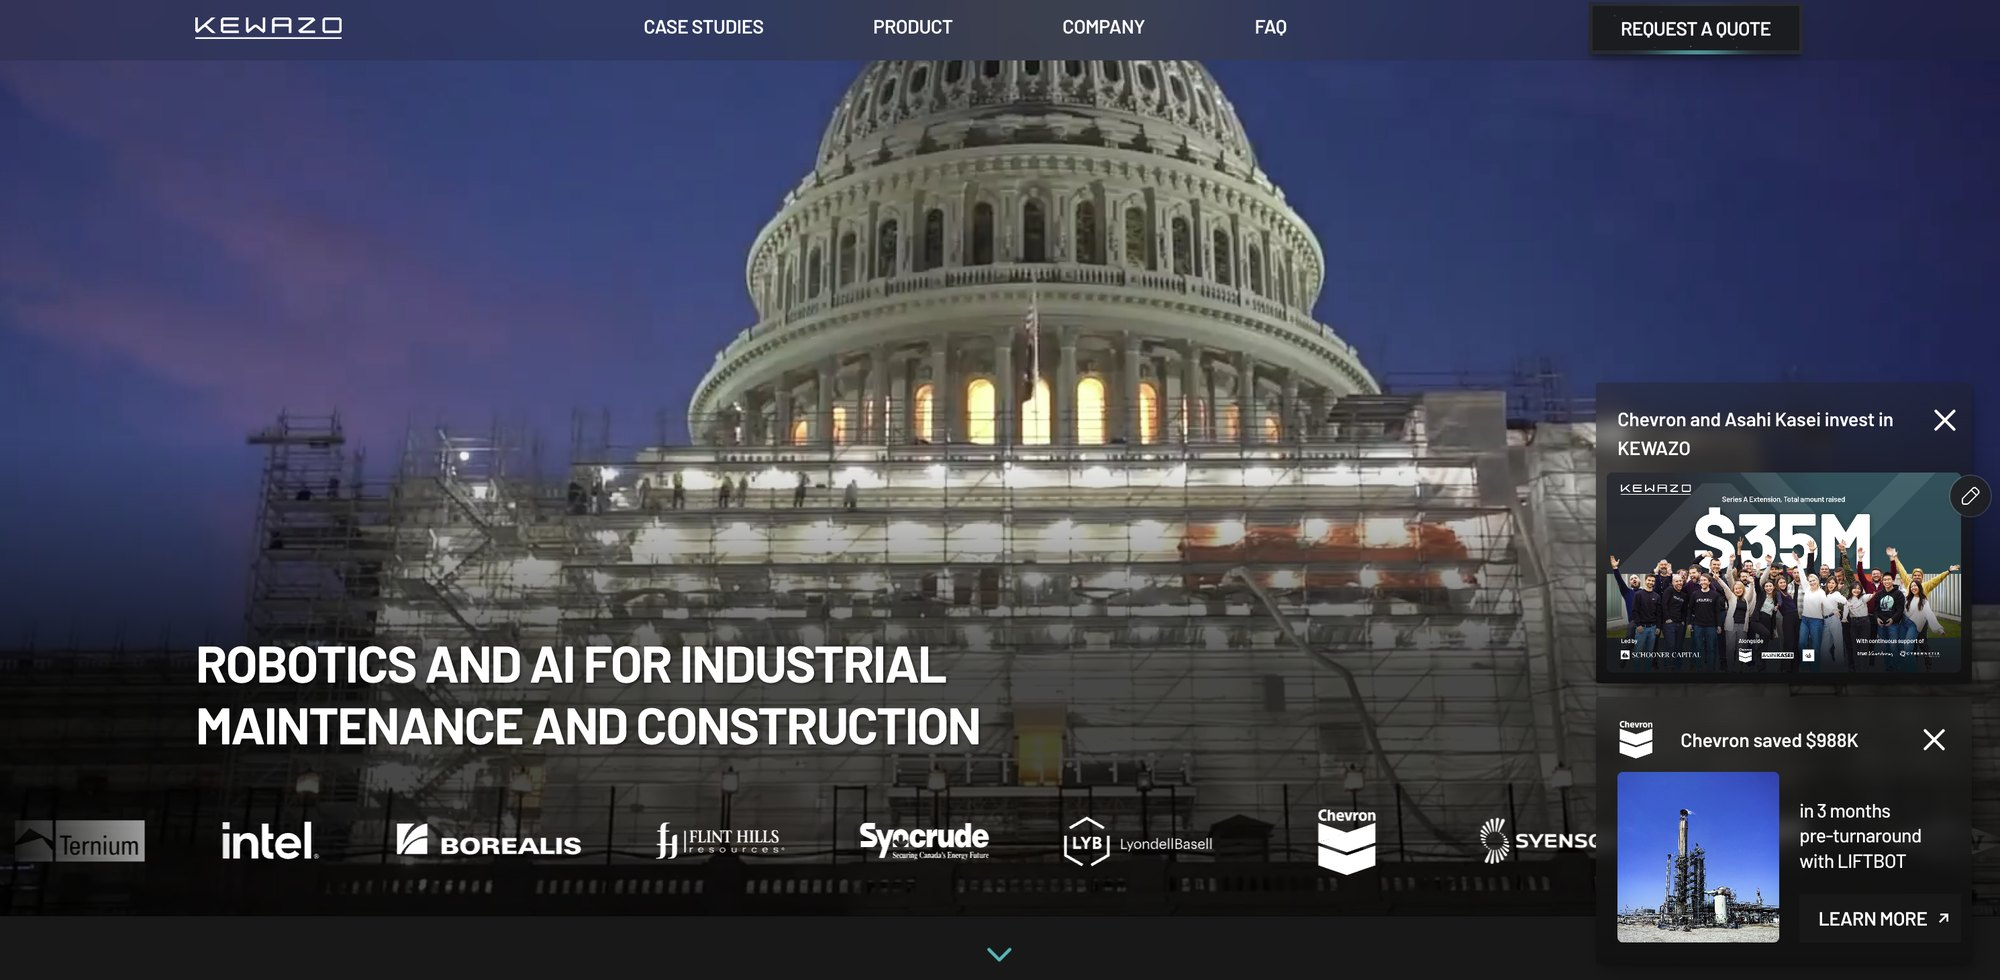
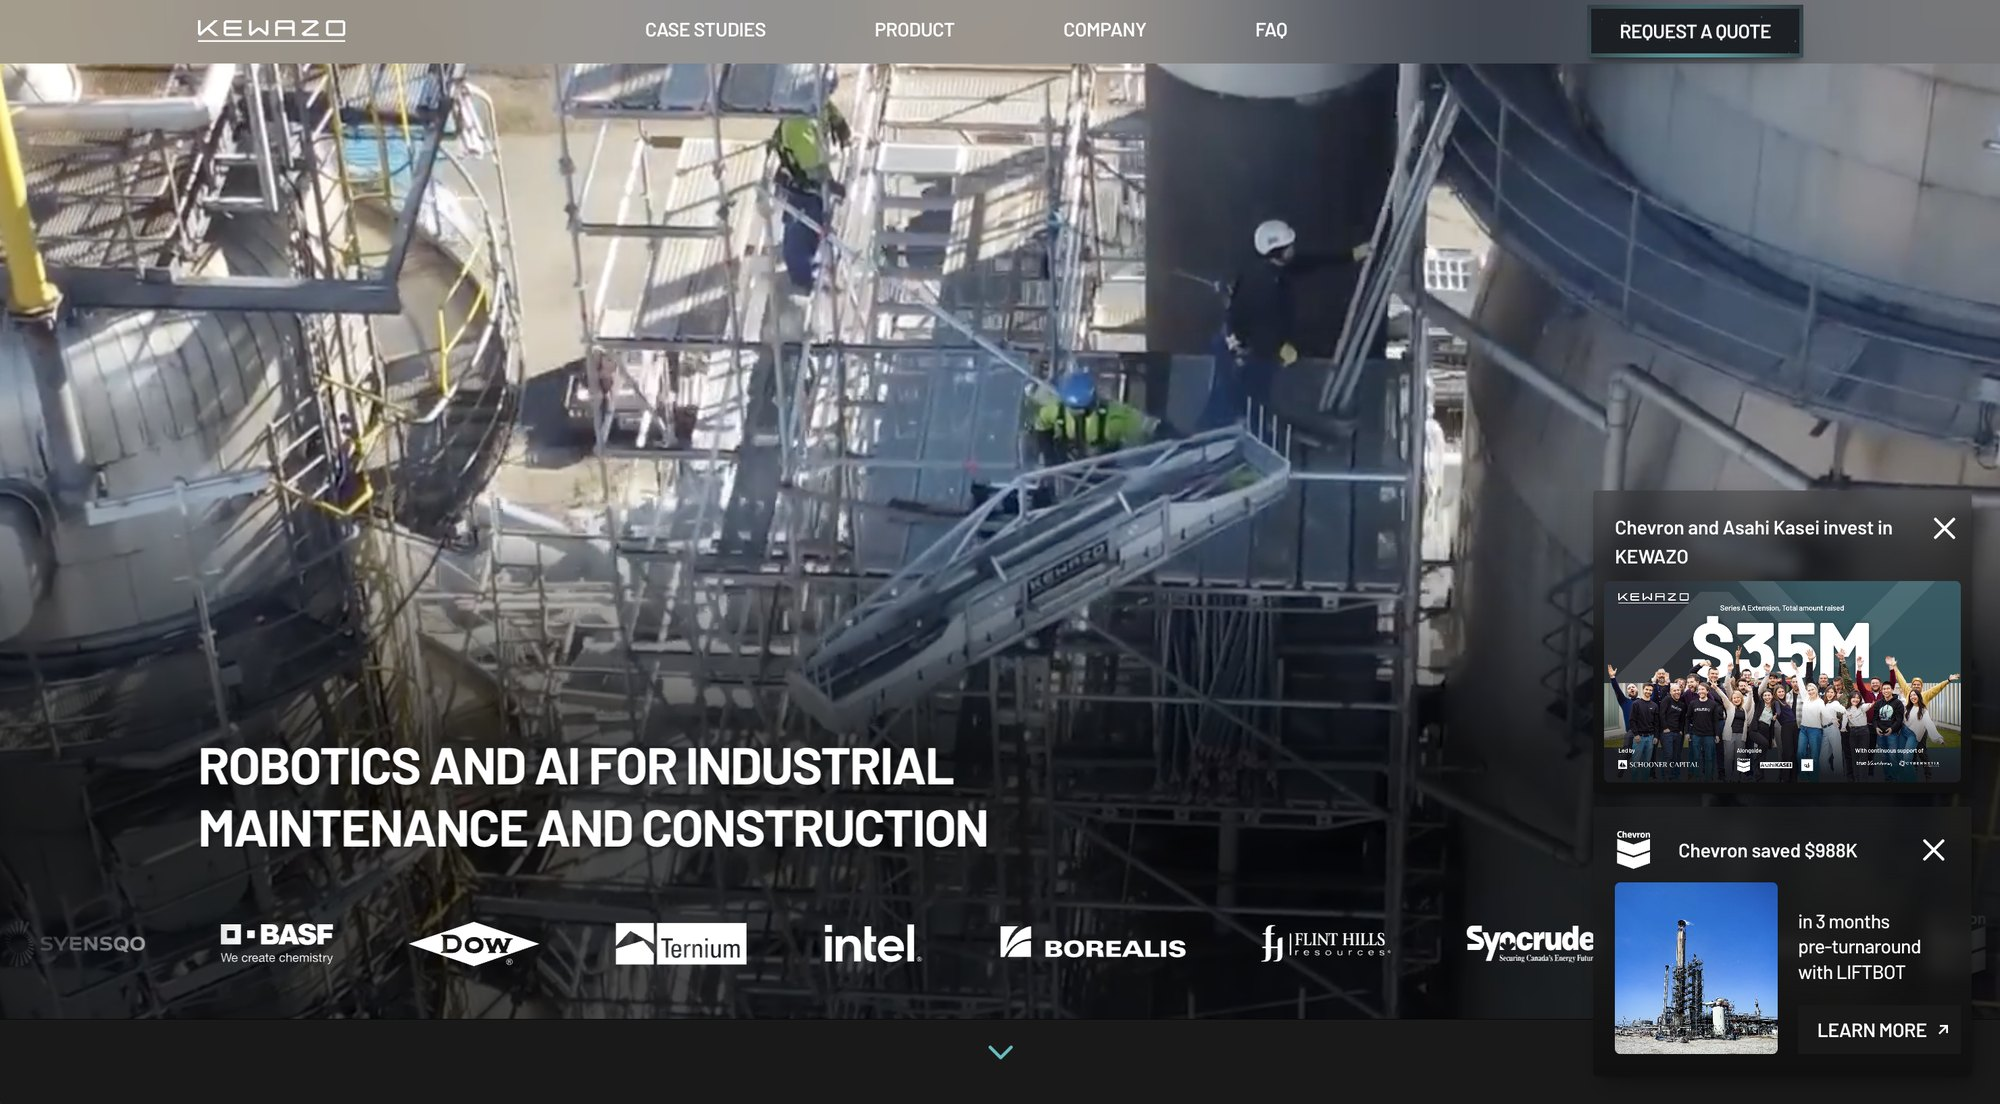
Before/after slider: new After screenshot
Claude-Session: https://claude.ai/code/session_01GjZZ7LRQebosA5uJgZKT9S

diff --git a/app/components/before-after-slider.tsx b/app/components/before-after-slider.tsx
@@ -50,7 +50,7 @@ export default function BeforeAfterSlider({
       ref={box}
       onPointerDown={onPointerDown}
       onPointerMove={(e) => e.buttons === 1 && moveTo(e.clientX)}
-      className="relative w-full aspect-[2000/980] overflow-hidden bg-[#121217] select-none touch-pan-y cursor-ew-resize"
+      className="relative w-full aspect-[2000/1104] overflow-hidden bg-[#121217] select-none touch-pan-y cursor-ew-resize"
     >
       {side(after, afterAlt)}
       <div className="absolute inset-0" style={{ clipPath: `inset(0 ${100 - pos}% 0 0)` }}>
